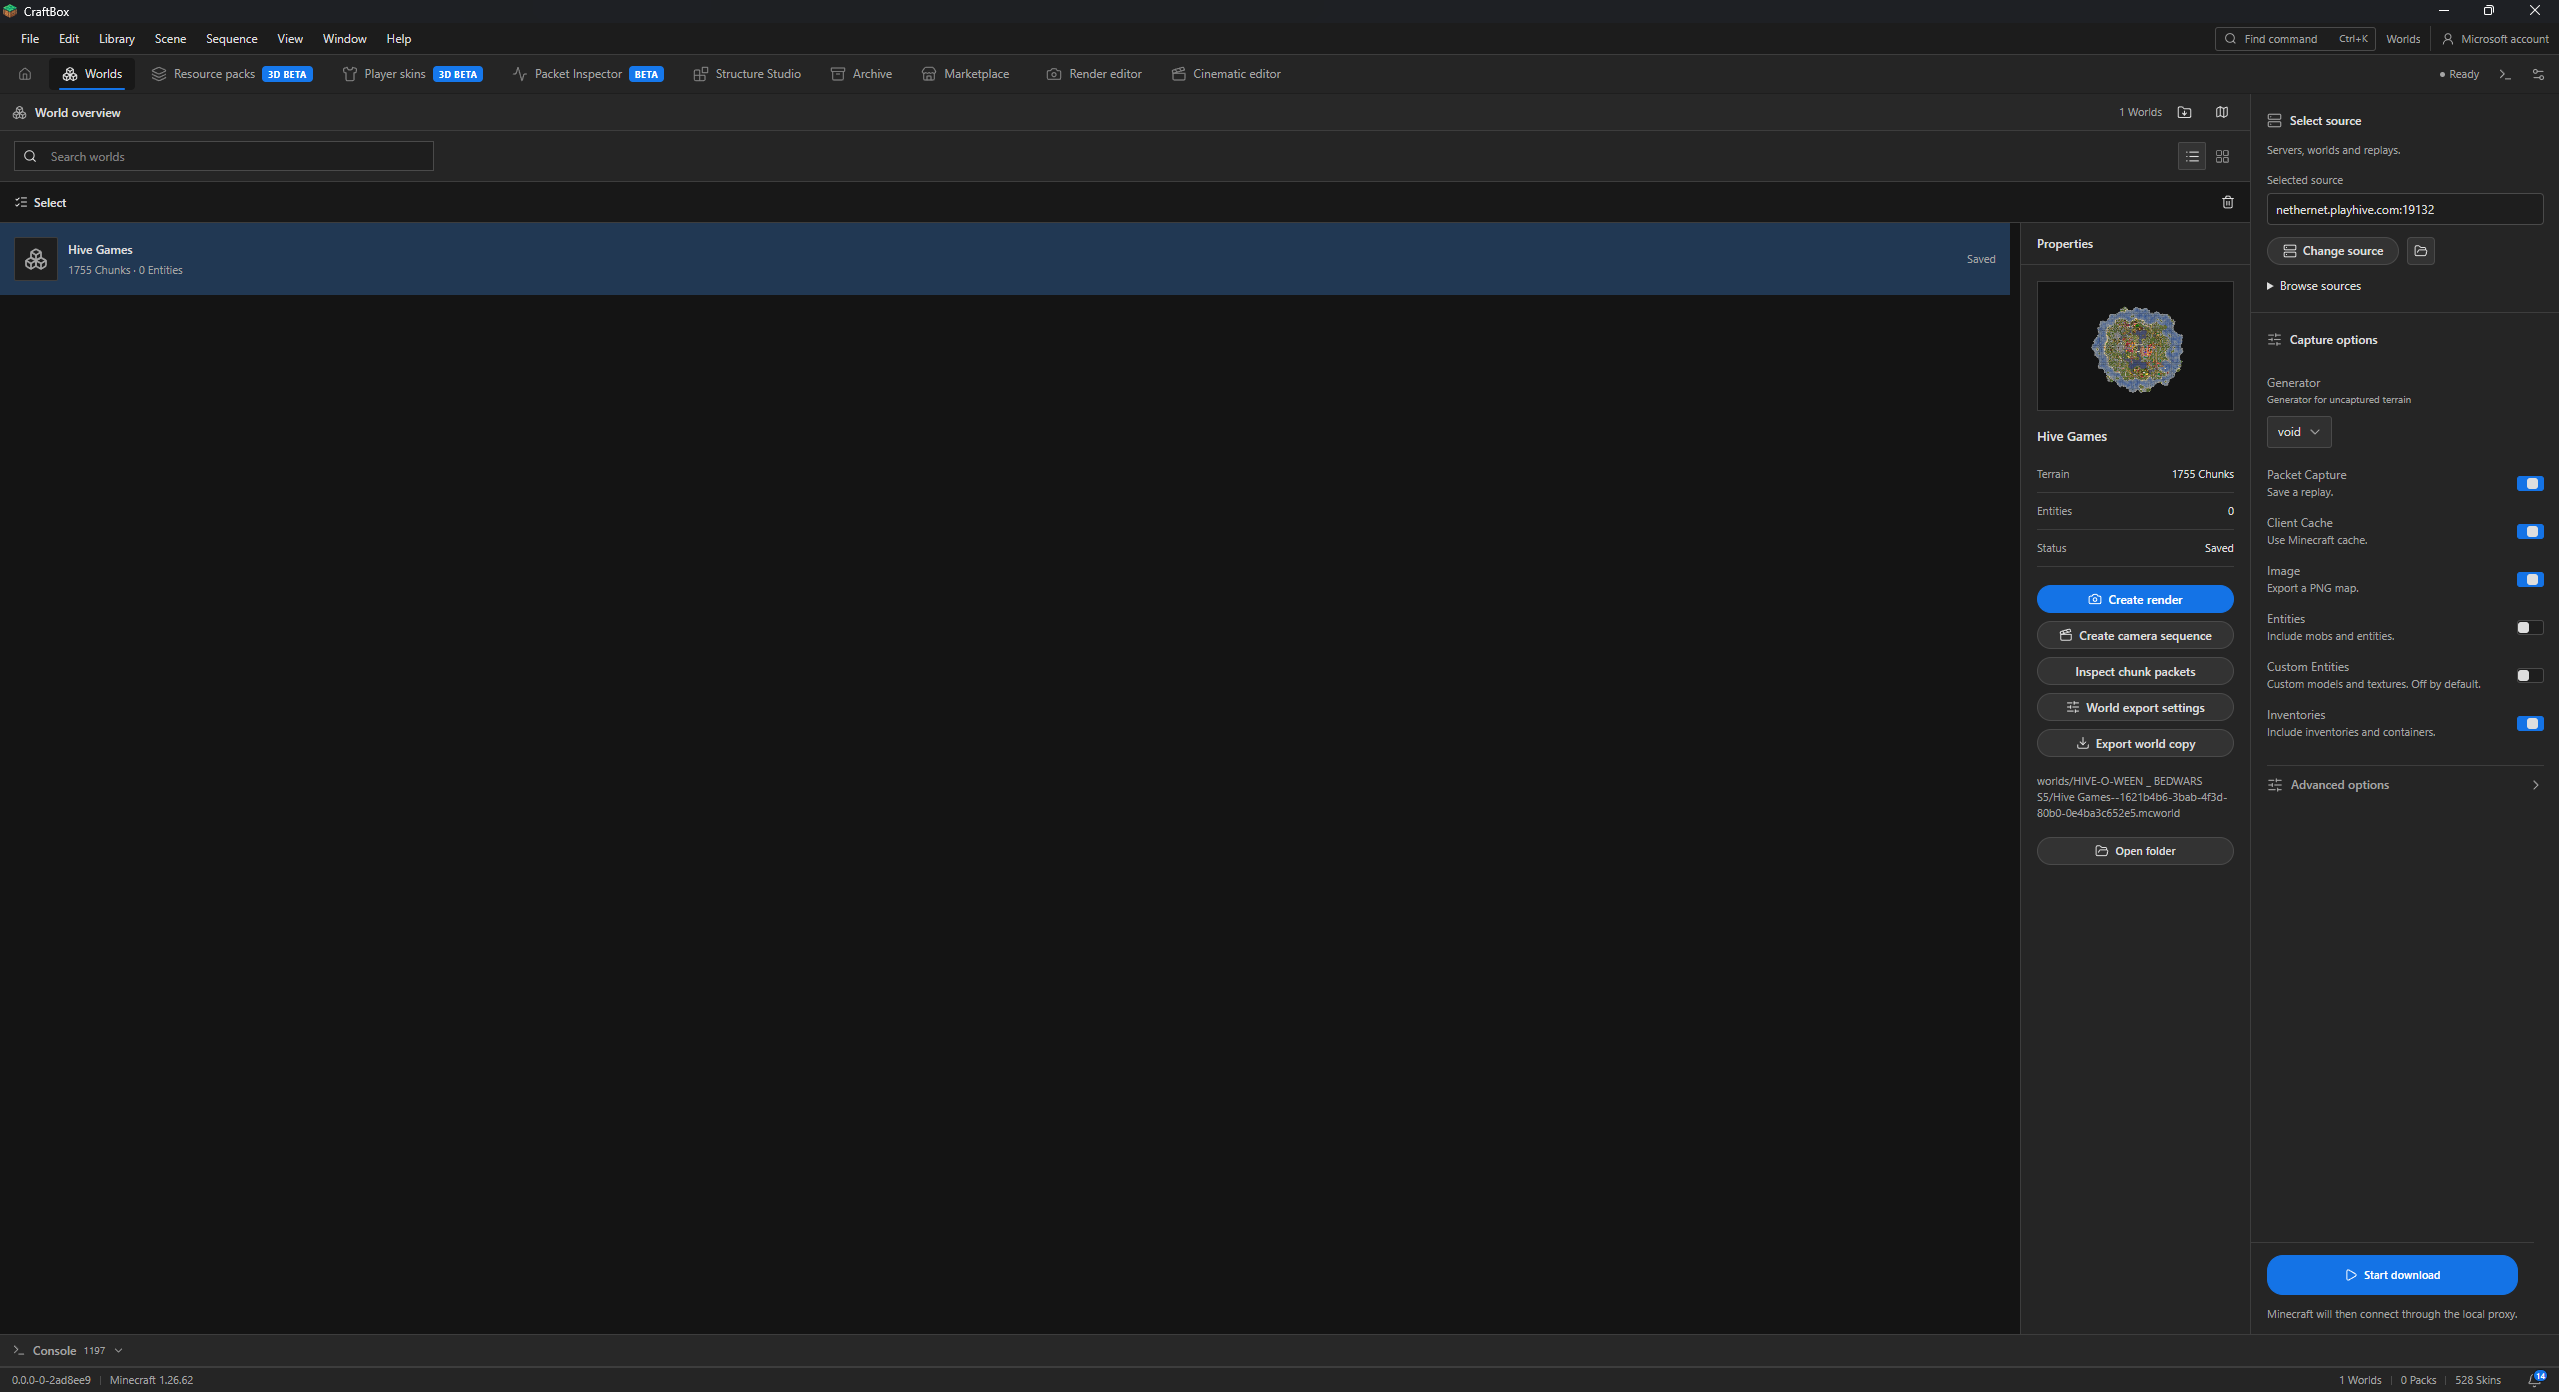
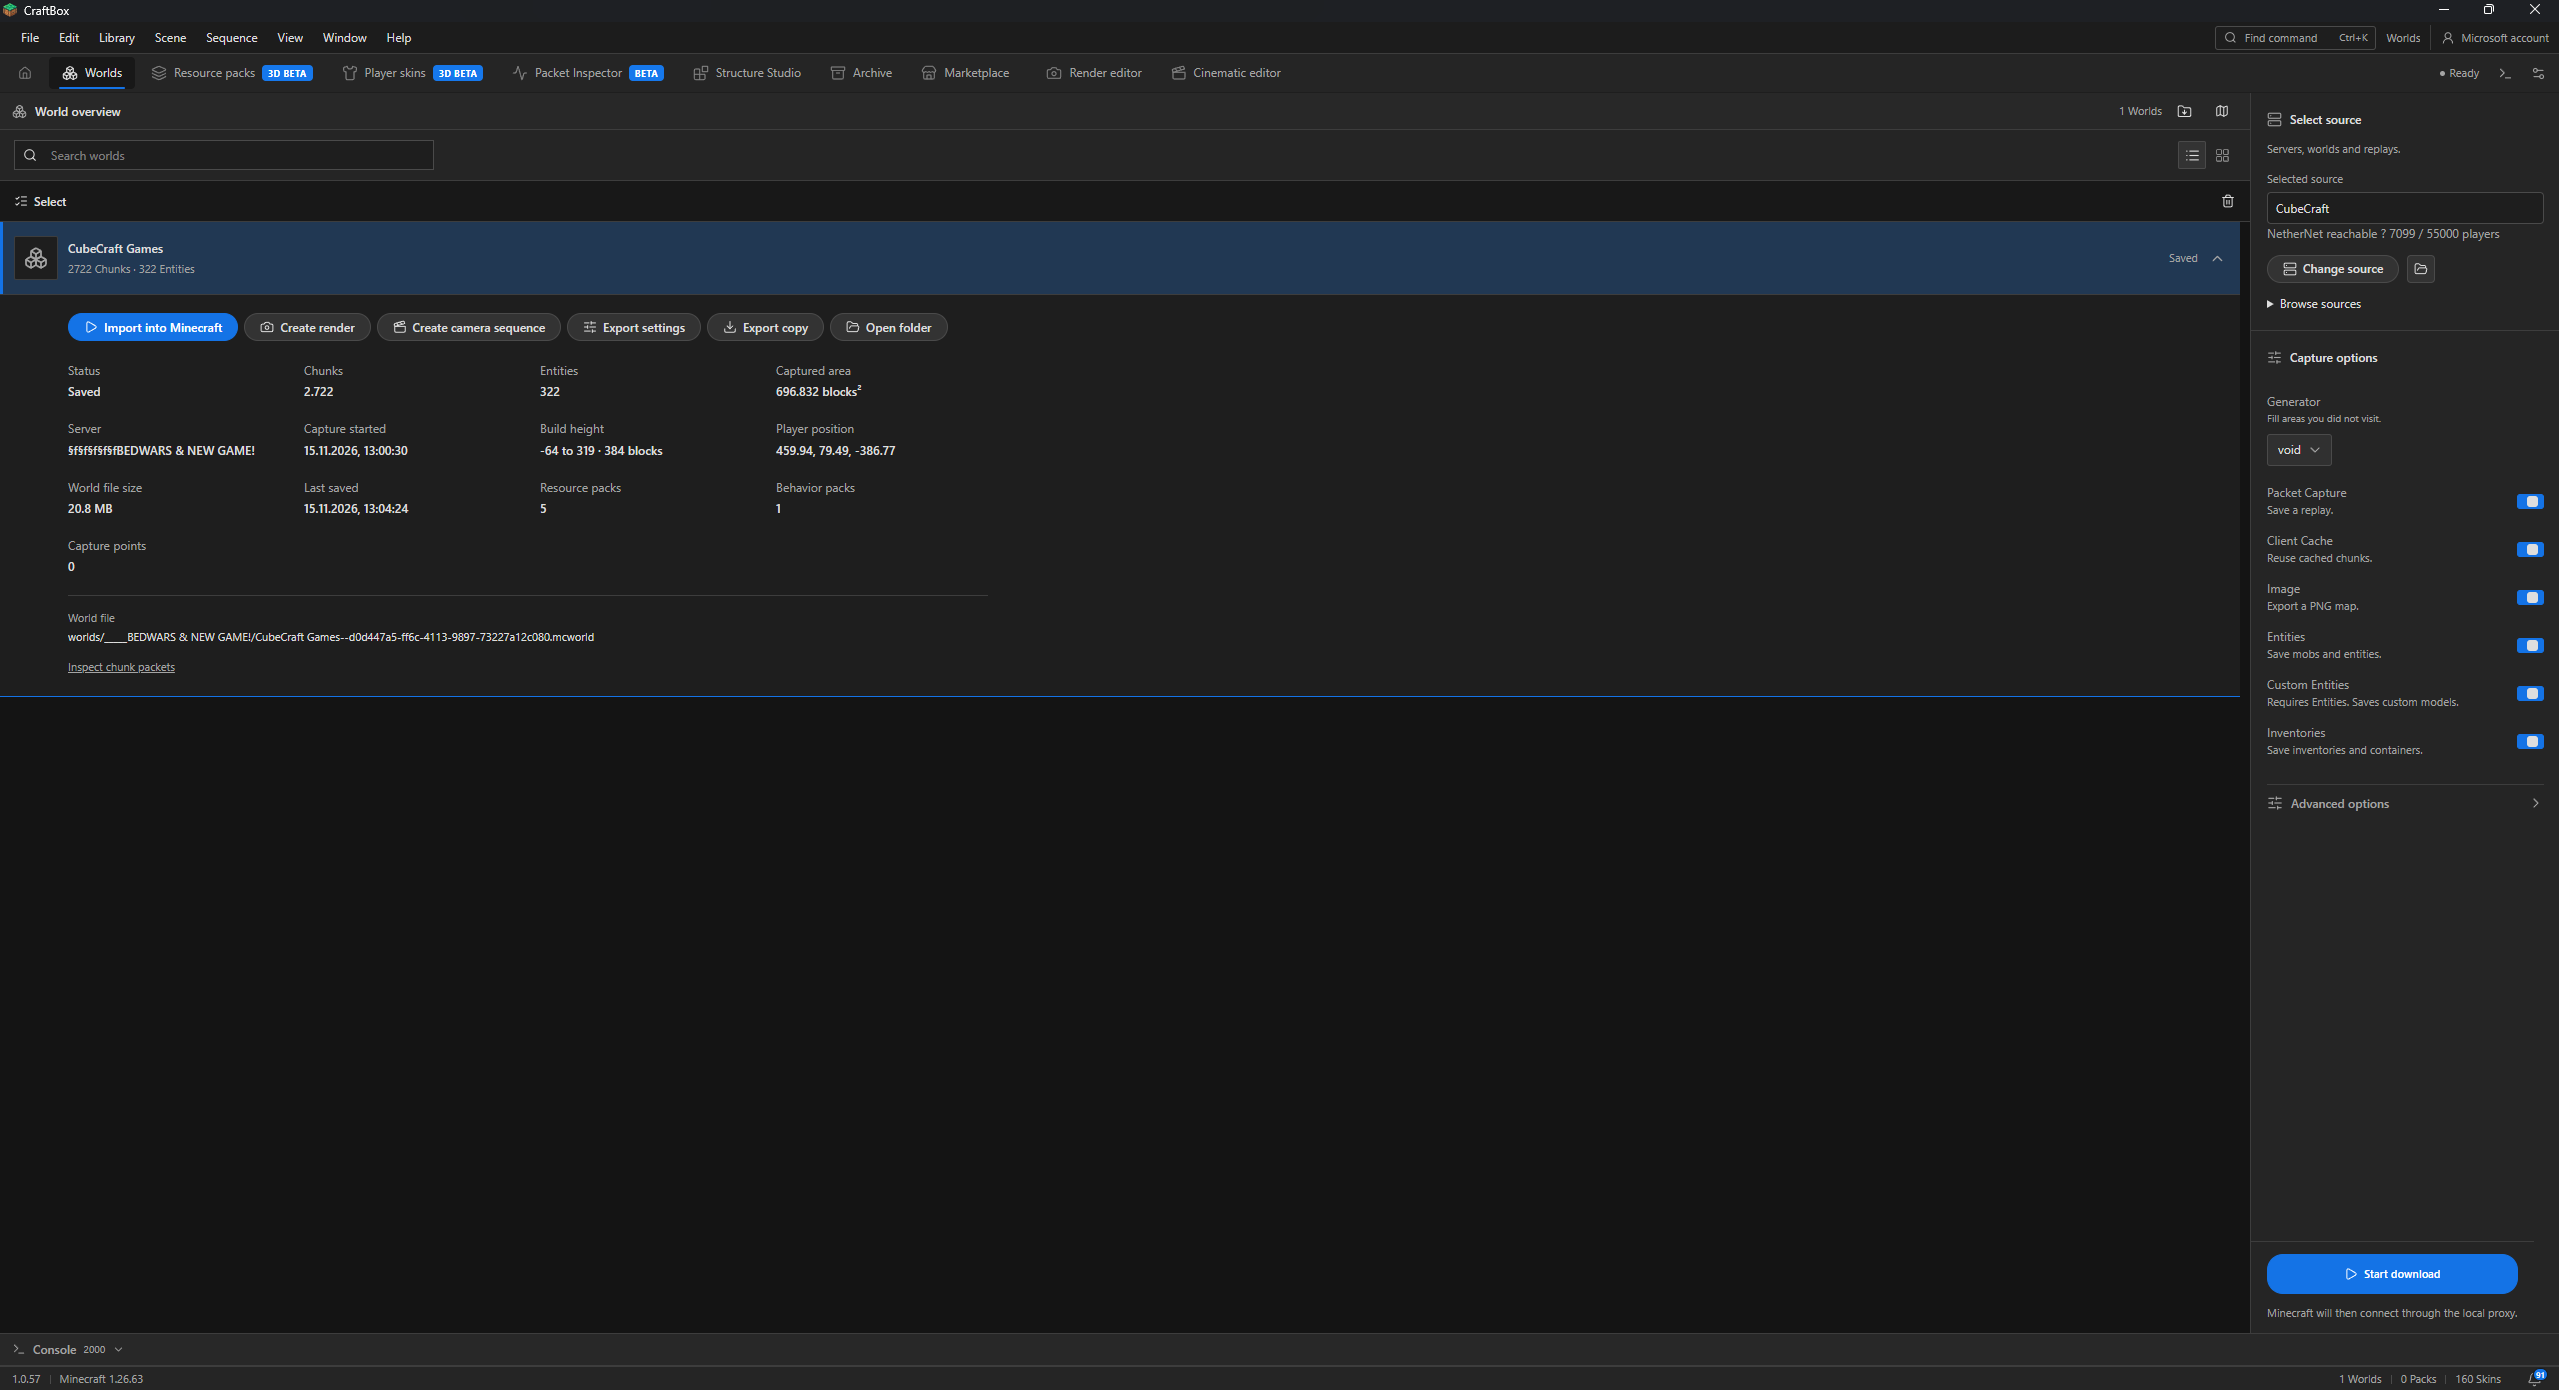
docs: update Worlds workspace screenshot

diff --git a/Readme.md b/Readme.md
@@ -42,7 +42,7 @@ See [Copy a singleplayer world](docs/singleplayer-world-copy.md) for discovery, 
 
 World capture saves the chunk and block data delivered during play. Entity recording, custom entities, player models, inventories and block updates can be selected for the capture. Player and entity recording are off by default; inventory capture and the final map image are enabled by default in the world command.
 
-![CraftBox Worlds workspace showing a saved Hive Games capture, its map thumbnail, render and camera-sequence actions, and capture settings](docs/images/craftbox-worlds.png)
+![CraftBox Worlds workspace showing a saved CubeCraft Games capture, expanded world details, Minecraft import, export actions, and capture settings](docs/images/craftbox-worlds.png)
 
 *A saved world in the Worlds overview. From here you can open its output folder, export a world copy, create a render or start a camera sequence.*
 
